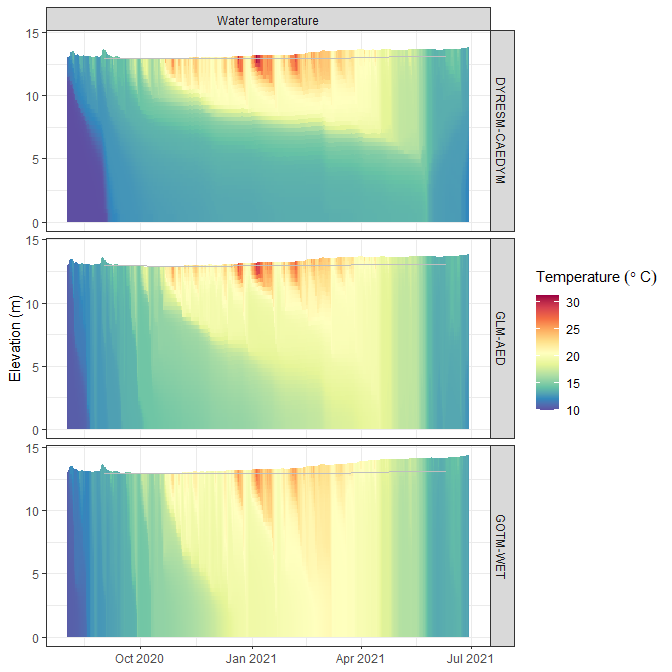
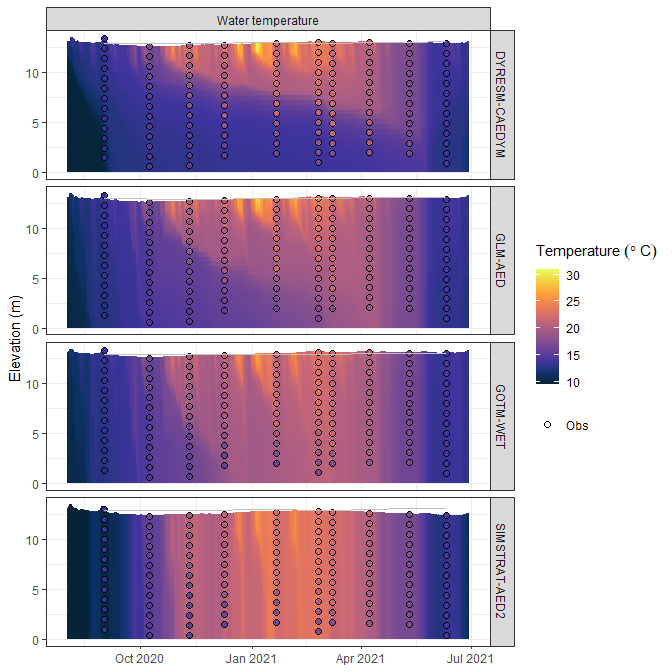
update readme

diff --git a/README.md b/README.md
@@ -1,7 +1,7 @@
 
 <!-- README.md is generated from README.Rmd. Please edit that file -->
 
-# AEME <a href="https://limnotrack.github.io/AEME/"><img src="man/figures/logo.png" align="right" height="120" alt="AEME website" /></a>
+# AEME <a href="https://limnotrack.com/AEME/"><img src="man/figures/logo.png" align="right" height="120" alt="AEME website" /></a>
 
 <!-- badges: start -->
 
@@ -38,7 +38,22 @@ You can install AEME from [GitHub](https://github.com/) with:
 devtools::install_github("limnotrack/AEME")
 ```
 
-Currently, AEME is only available for Windows users.
+Model executables are no longer bundled with the AEME package. You will
+need to install the models after downloading.
+
+``` r
+library(AEME)
+install_models()
+```
+
+Model availability by operating system:
+
+| Model         | Windows | MacOS | Linux |
+|---------------|---------|-------|-------|
+| DYRESM-CAEDYM | ✅      | ❌    | ❌    |
+| GLM-AED       | ✅      | ✅    | ✅    |
+| GOTM-WET      | ✅      | ❌    | ❌    |
+| Simstrat-AED2 | ✅      | ✅    | ✅    |
 
 ## Example
 
@@ -55,7 +70,7 @@ file.copy(aeme_dir, tmpdir, recursive = TRUE)
 path <- file.path(tmpdir, "lake")
 aeme <- yaml_to_aeme(path = path, "aeme.yaml")
 model_controls <- get_model_controls(use_bgc = TRUE)
-model <- c("dy_cd", "glm_aed", "gotm_wet")
+model <- c("dy_cd", "glm_aed", "gotm_wet", "simstrat_aed2")
 aeme <- build_aeme(path = path, aeme = aeme, model = model,
                             model_controls = model_controls,
                             ext_elev = 5, use_bgc = TRUE)
@@ -92,12 +107,12 @@ aeme
 #> ── Time ──
 #> 
 #> • Start: 2020-08-01; Stop: 2021-06-30; Time step: 3600
-#> • Spin up (days): GLM: 2; GOTM: 1; DYRESM: 1
+#> • Spin up (days): GLM: 2; GOTM: 1; DYRESM: 1; Simstrat: 2
 #> 
 #> ── Configuration ──
 #> 
-#> • Model: dy_cd, glm_aed, and gotm_wet
-#> • Path: 'C:\Users\mooret\AppData\Local\Temp\RtmpopDlmQ\lake'
+#> • Model: dy_cd, glm_aed, gotm_wet, and simstrat_aed2
+#> • Path: 'C:\Users\mooret\AppData\Local\Temp\RtmpCYtUii\lake'
 #> • Model controls: Present
 #> • Use biogeochemical model: Yes
 #> ┌ Model Configuration ─────────────────────────────────────────┐
@@ -106,6 +121,7 @@ aeme
 #> │       DY-CD              Present             Present         │
 #> │      GLM-AED             Present             Present         │
 #> │      GOTM-WET            Present             Present         │
+#> │   SIMSTRAT-AED2          Present             Present         │
 #> └──────────────────────────────────────────────────────────────┘
 #> 
 #> ── Observations ──
@@ -121,12 +137,12 @@ aeme
 #> ── Inflows ──
 #> 
 #> • Number of inflows: 1; Names: FWMT
-#> • Scaling factors: DY-CD: 1; GLM-AED: 1; GOTM-WET: 1
+#> • Scaling factors: DY-CD: 1; GLM-AED: 1; GOTM-WET: 1; Simstrat-AED2: 1
 #> 
 #> ── Outflows ──
 #> 
-#> • Data: Present
-#> • Scaling factors: DY-CD: 1; GLM-AED: 1; GOTM-WET: 1
+#> • Number of outflows: 2; Names: outflow, wbal; Elevations: -1, -1
+#> • Scaling factors: DY-CD: 1; GLM-AED: 1; GOTM-WET: 1; Simstrat-AED2: 1
 #> 
 #> ── Water Balance ──
 #> 
@@ -142,16 +158,17 @@ aeme
 #> • DY-CD: 1
 #> • GLM-AED: 1
 #> • GOTM-WET: 1
-#> • Variables: 42
+#> • SIMSTRAT-AED2: 1
+#> • Variables: 44
 #> Water temperature, Thermocline depth, Dissolved oxygen, Total chlorophyll a,
 #> Total nitrogen, Total phosphorus, Water level, Lake depth, Water density,
-#> Stratified, ... and 32 more
+#> Stratified, ... and 34 more
 ```
 
 Model data can be visualised easily using the `plot_output()` function:
 
 ``` r
-p1 <- plot_output(aeme = aeme, model = model, var_sim = "HYD_temp")
+p1 <- plot_output(aeme = aeme, var_sim = "HYD_temp")
 p1
 ```
 
@@ -160,8 +177,7 @@ p1
 Also, visualising lake level plots.
 
 ``` r
-p2 <- plot_output(aeme = aeme, model = model, var_sim = "LKE_lvlwtr",
-                  facet = FALSE)
+p2 <- plot_wlev(aeme = aeme)
 p2
 ```
 
@@ -172,16 +188,15 @@ p2
 We have a host of vignettes to help you get started with AEME:
 
 - [Introduction to
-  AEME](https://limnotrack.github.io/AEME/articles/intro-aeme.html)
+  AEME](https://limnotrack.com/AEME/articles/intro-aeme.html)
 - [Set up for your own
-  lake](https://limnotrack.github.io/AEME/articles/getting-started.html)
+  lake](https://limnotrack.com/AEME/articles/getting-started.html)
 - [Description of model
-  inputs](https://limnotrack.github.io/AEME/articles/aeme-inputs.html)
+  inputs](https://limnotrack.com/AEME/articles/aeme-inputs.html)
 
 ## Extension
 
-- [aemetools](https://limnotrack.github.io/AEME/articles/aeme-inputs.html) -
-  For downloading meteorological data, calibration and sensitivity
-  analysis.
-- [bathytools](https://limnotrack.github.io/bathytools/) - For
-  processing lake bathymetry data.
+- [aemetools](https://limnotrack.com/aemetools/) - For downloading
+  meteorological data, calibration and sensitivity analysis.
+- [bathytools](https://limnotrack.com//bathytools/) - For processing
+  lake bathymetry data.
